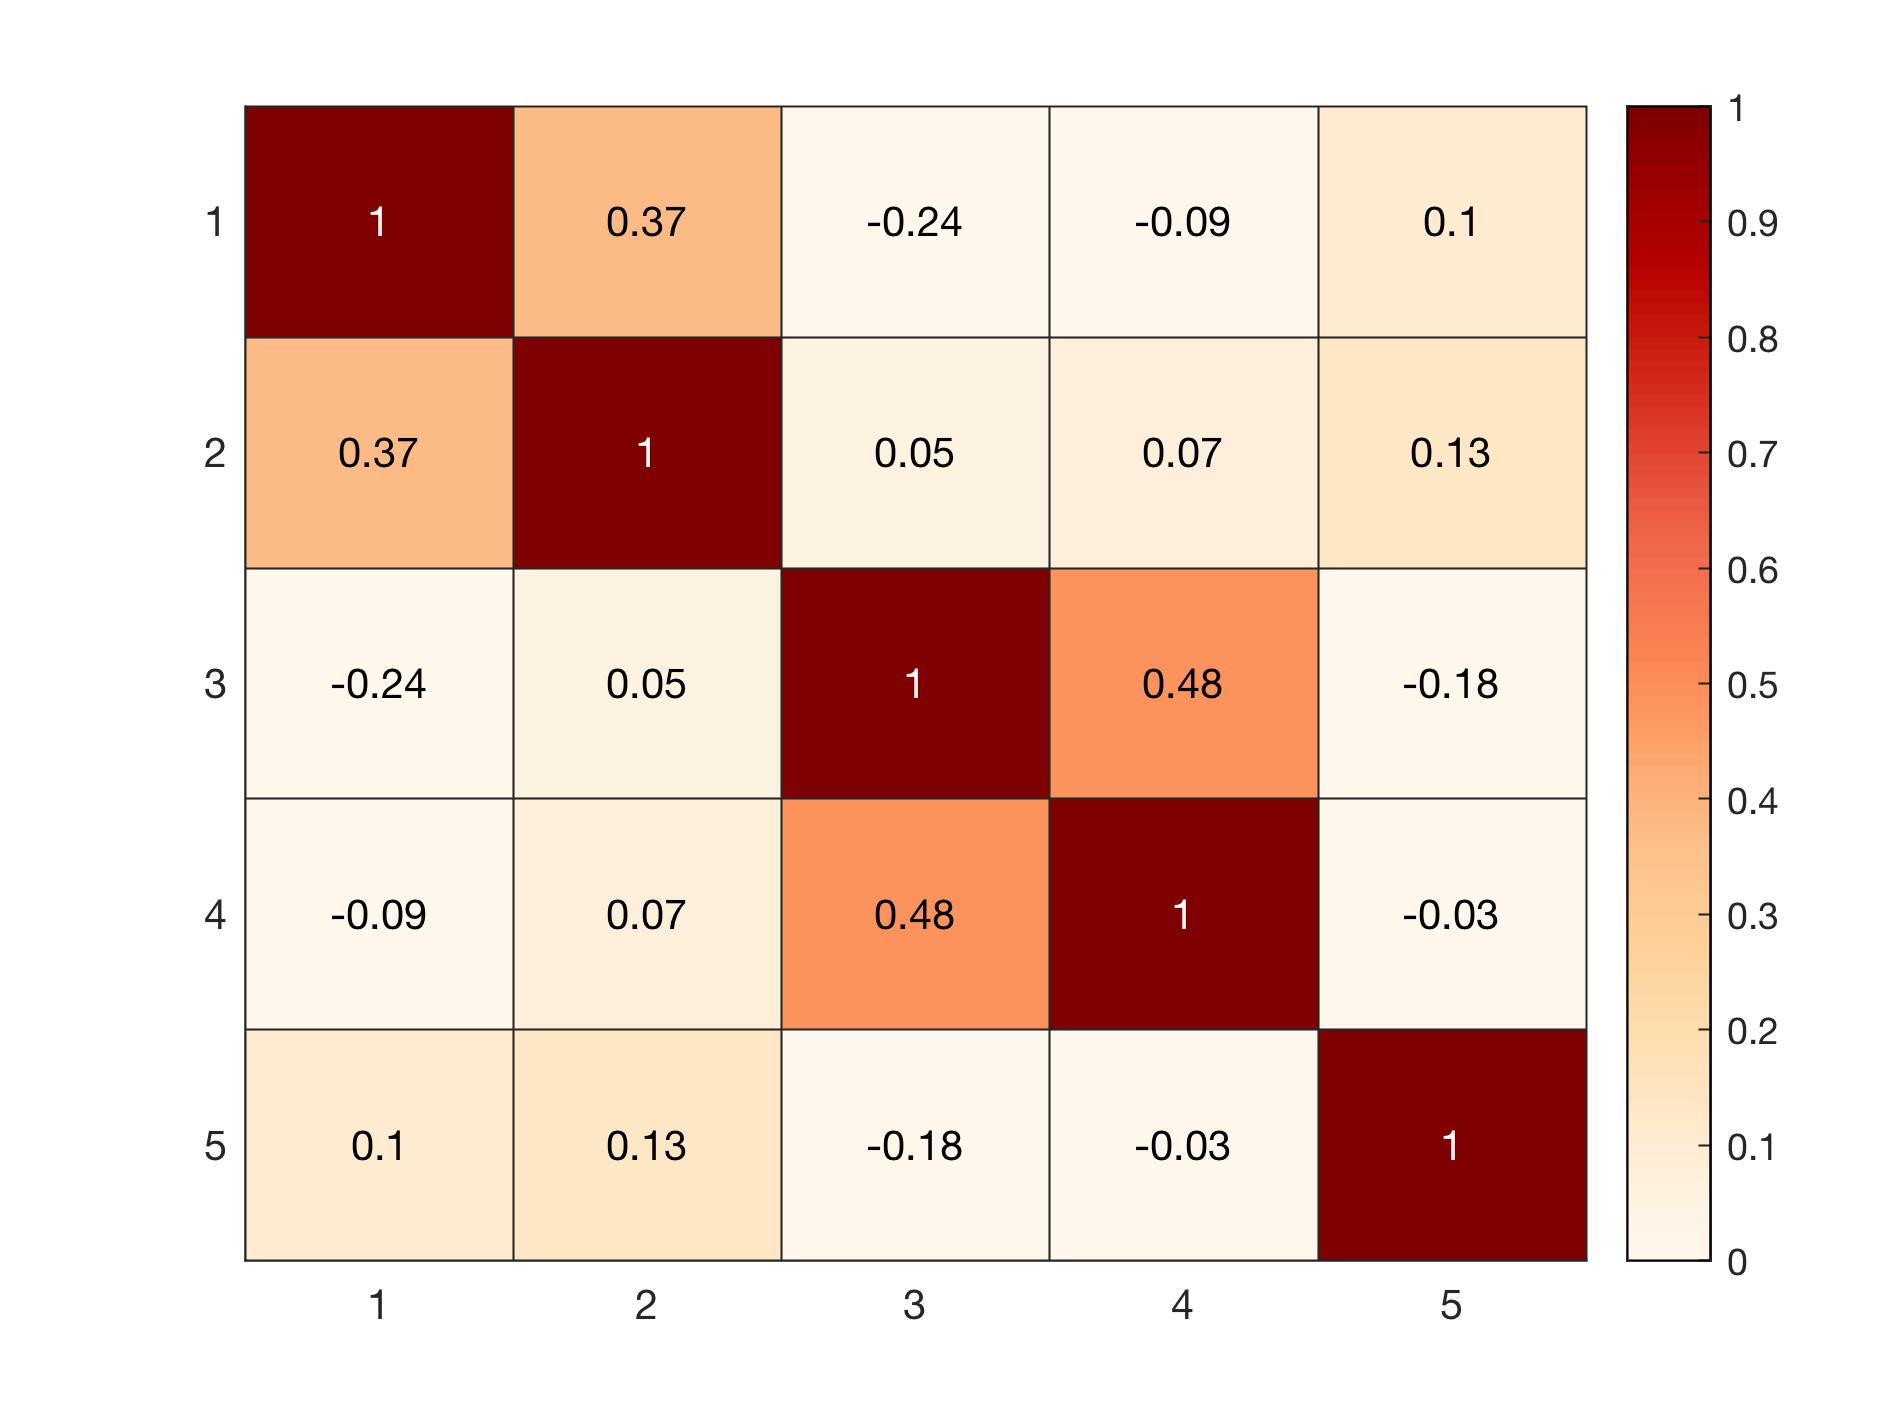
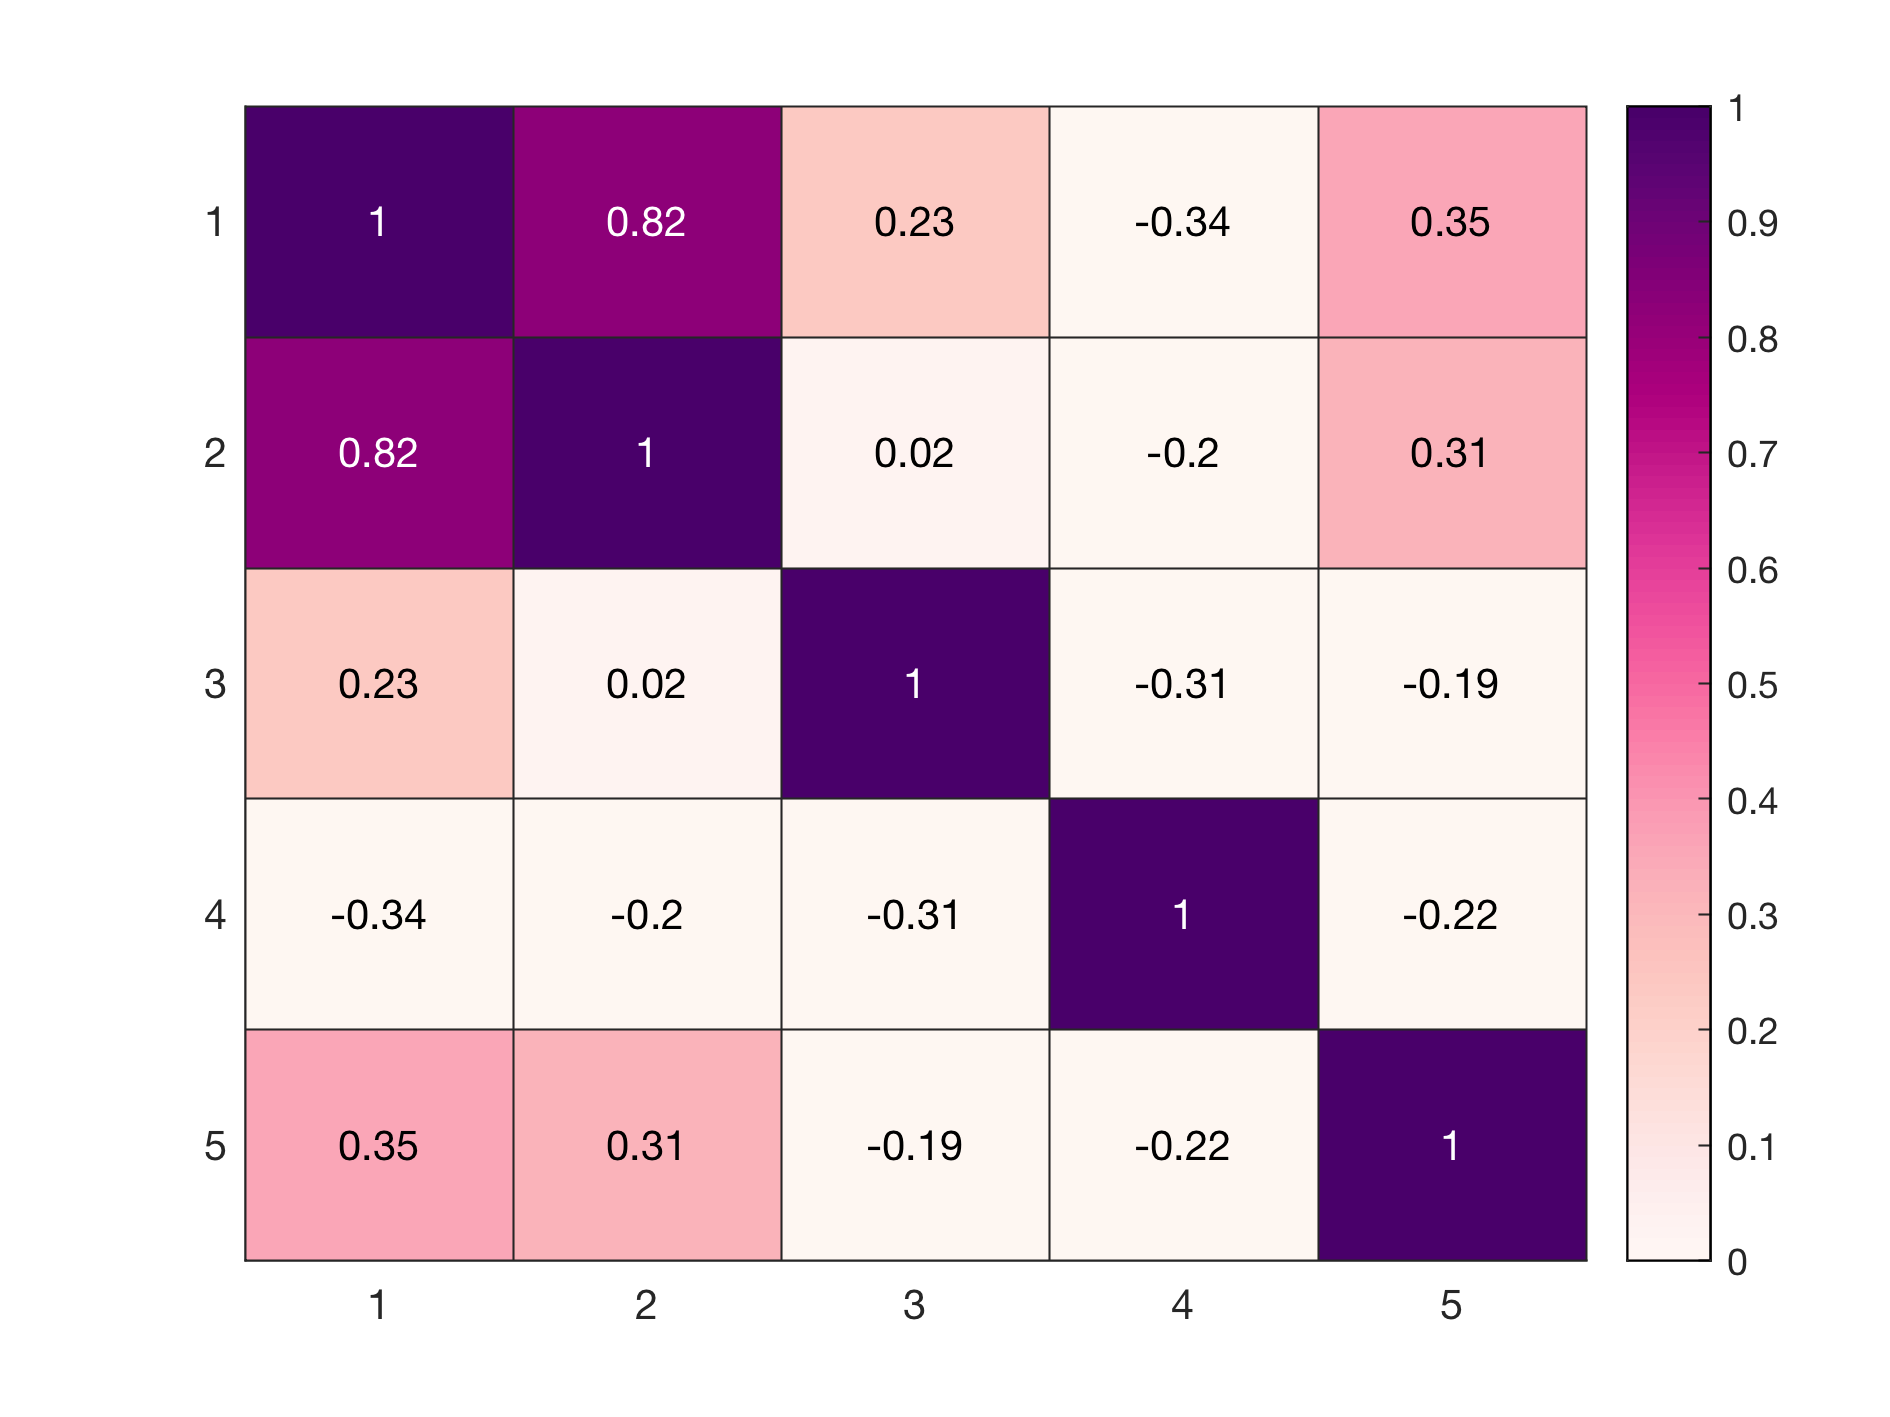
Add files via upload

diff --git a/Heatmap/figure_heatmap_examples.m b/Heatmap/figure_heatmap_examples.m
@@ -54,7 +54,7 @@ print('heatmap_example4','-dpng','-r300')
 %% Example 5: Heatmap of a rectangular matrix and automated saving of figure with approproate cell sizes
 
 % Generating rectangular matrix data
-X = randn(10,3);
+X = randn(10,6);
 colorscheme = 'YlOrRd';
 text_title = 'Rectangular Matrix';
 text_labels = {'Variable 1','Variable 2'};

diff --git a/Heatmap/figure_heatmap.m b/Heatmap/figure_heatmap.m
@@ -55,7 +55,7 @@ set(0,'DefaultTextFontSize',8)
 %% Defaults
 
 %Brewermap add-on is required for defining colormaps
-color_scheme = brewermap(100,'OrRd');
+color_scheme = brewermap(100,'RdPu');
 % 'YlOrRd','BuPu', and 'BuGn' are nice as well
 text_title = ' ';
 text_labels{1} = ' ';
